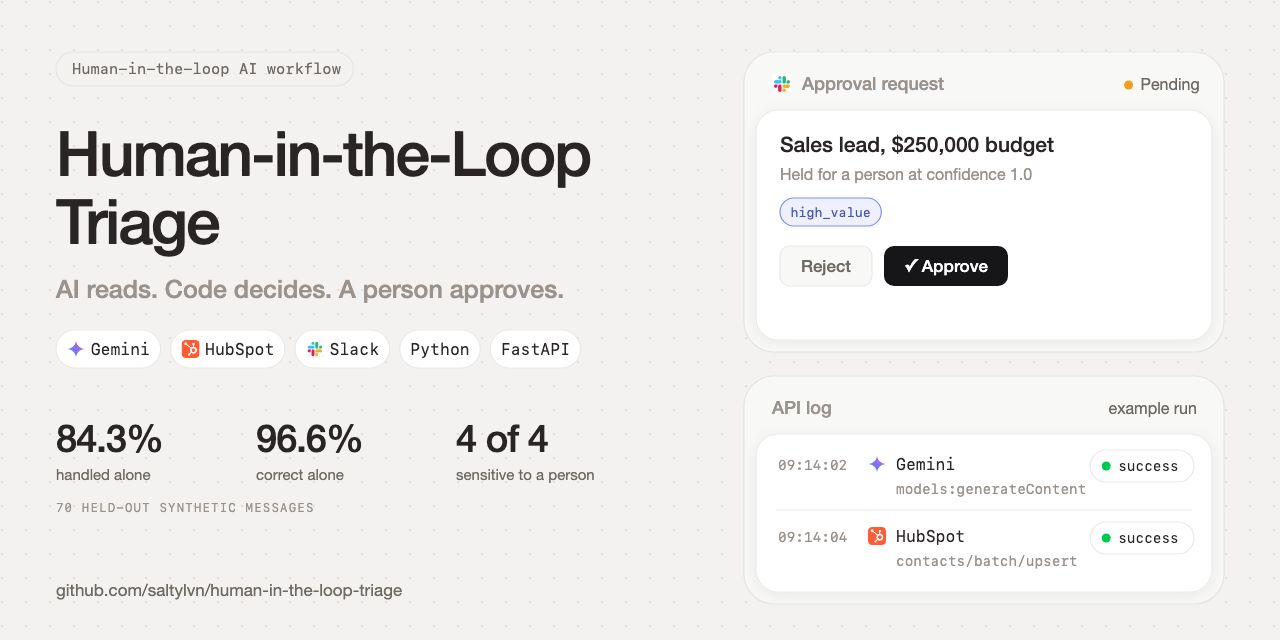
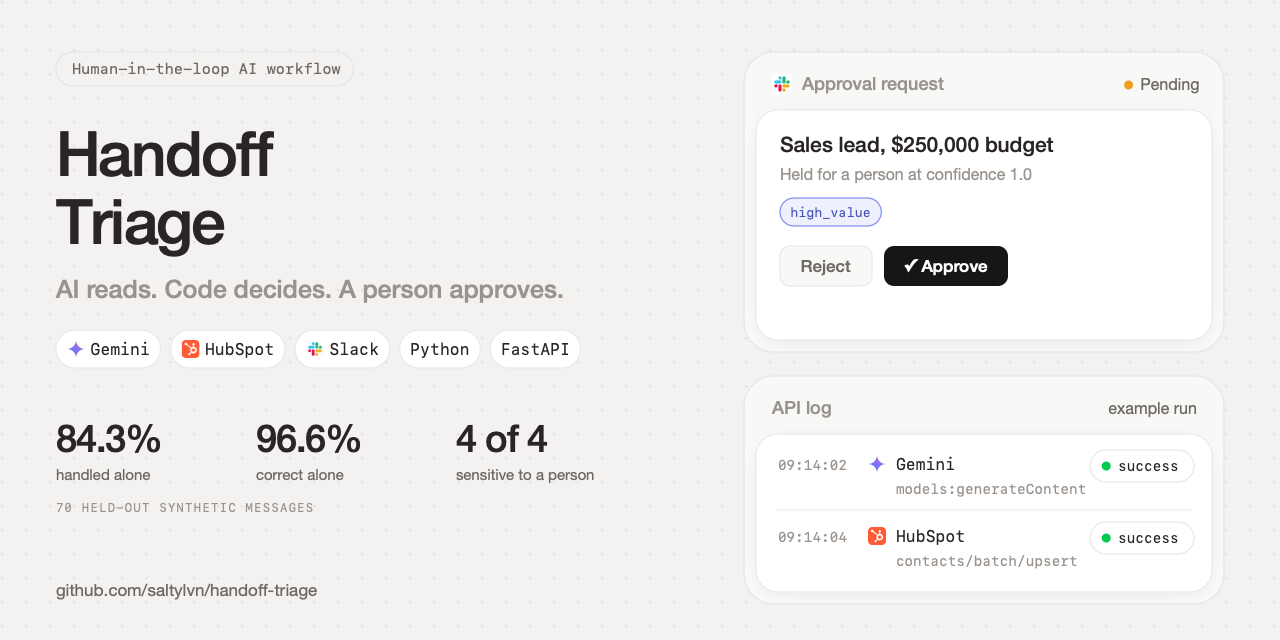
Rename the project to Handoff Triage
The repository becomes saltylvn/handoff-triage and the project is called
Handoff Triage everywhere: the README title and badges, the package name,
the API title, the HTTP User-Agent, the Slack and HubSpot app names, and
every visual (header, center card, footer link and social preview).
"Human-in-the-loop" stays where it describes the idea, not the name.

diff --git a/scripts/visuals/canvas.py b/scripts/visuals/canvas.py
@@ -20,7 +20,7 @@ GREEN, GREEN_DOT, AMBER, RED_DOT = "#0b7a3b", "#00c950", "#f0a020", "#fb2c36"
 
 SANS = "'Helvetica Now Display', 'Helvetica Neue', Helvetica, Arial, sans-serif"
 MONO = "'SF Mono Local', 'Geist Mono', Menlo, monospace"
-URL = "github.com/saltylvn/human-in-the-loop-triage"
+URL = "github.com/saltylvn/handoff-triage"
 SF_MONO = Path(
     "/System/Applications/Utilities/Terminal.app/Contents/Resources/Fonts/SF-Mono-Regular.otf"
 )
@@ -70,7 +70,7 @@ class Canvas:
         tag = topic
         self.rect(M, 40, text_width(tag, 15, True) + 32, 34, "none", PANEL_EDGE, r=17)
         self.text(M + 16, 62, tag, 15, MUTED, MONO)
-        self.text(W - M, 64, "Human-in-the-Loop Triage", 20, MUTED, anchor="end", weight=500)
+        self.text(W - M, 64, "Handoff Triage", 20, MUTED, anchor="end", weight=500)
         for i, (words, color) in enumerate(headline):
             self.text(M, 132 + i * 58, words, 52, color, weight=500, spacing=-1.5)
         self.hub(pill)
@@ -236,8 +236,8 @@ class Canvas:
         self.rect(ix, iy, w - 24, h - 24, WHITE, WHITE_EDGE, r=28, shadow=True)
         self.dot(ix + 40, iy + 50, ACCENT, r=5)
         self.text(ix + 54, iy + 56, "New message on the contact form", 17, SOFT)
-        self.text(ix + 38, iy + 118, "Inbound Triage", 38, INK, weight=500, spacing=-1)
-        self.text(ix + 38, iy + 162, "Agent", 38, INK, weight=500, spacing=-1)
+        self.text(ix + 38, iy + 118, "Handoff", 38, INK, weight=500, spacing=-1)
+        self.text(ix + 38, iy + 162, "Triage", 38, INK, weight=500, spacing=-1)
         for i, (_, name, _color) in enumerate(TILES):
             row, col = divmod(i, 2)
             cx, cy = ix + 38 + col * 158, iy + 196 + row * 48
@@ -314,7 +314,7 @@ def reliability():
         [("Nothing lost, nothing done twice.", INK), ("Failures resume where they stopped.", SOFT)],
         "accepted messages are never lost.",
         "Reliability layer",
-        "System design, the reliability layer. In the middle, the Inbound Triage Agent, connected to Gemini, RDAP, "
+        "System design, the reliability layer. In the middle, Handoff Triage, connected to Gemini, RDAP, "
         "HubSpot and Slack. Around it: five intake checks before the API answers; one SQLite file with four tables; "
         "five detours such as approval, retry and failure; and a step ledger that lets a retry skip finished work.",
     )

diff --git a/scripts/visuals/slides.py b/scripts/visuals/slides.py
@@ -39,7 +39,7 @@ class Slide(Canvas):
         self.back, self.front = [], []
         self.rect(M, 40, text_width(tag, 15, True) + 32, 34, "none", PANEL_EDGE, r=17)
         self.text(M + 16, 62, tag, 15, MUTED, MONO)
-        self.text(W - M, 64, "Human-in-the-Loop Triage", 20, MUTED, anchor="end", weight=500)
+        self.text(W - M, 64, "Handoff Triage", 20, MUTED, anchor="end", weight=500)
         for i, (words, color) in enumerate(headline):
             self.text(M, 132 + i * 58, words, 52, color, weight=500, spacing=-1.5)
         if caption:
@@ -499,7 +499,7 @@ def social_preview():
     c = Canvas.__new__(Canvas)
     c.name = "social-preview"
     c.label = (
-        "Human-in-the-Loop Triage: AI reads, code decides, a person approves. Built with Gemini, "
+        "Handoff Triage: AI reads, code decides, a person approves. Built with Gemini, "
         "HubSpot, Slack, Python and FastAPI. 84.3 percent handled alone and 96.6 percent correct "
         "on 70 held-out synthetic messages."
     )
@@ -507,7 +507,7 @@ def social_preview():
     tag = "Human-in-the-loop AI workflow"
     c.rect(56, 52, text_width(tag, 15, True) + 32, 34, "none", PANEL_EDGE, r=17)
     c.text(72, 74, tag, 15, MUTED, MONO)
-    c.text(56, 176, "Human-in-the-Loop", 62, INK, weight=500, spacing=-1.8)
+    c.text(56, 176, "Handoff", 62, INK, weight=500, spacing=-1.8)
     c.text(56, 244, "Triage", 62, INK, weight=500, spacing=-1.8)
     c.text(56, 298, "AI reads. Code decides. A person approves.", 25, SOFT, weight=500)
     cx = 56

diff --git a/src/triage/wiring.py b/src/triage/wiring.py
@@ -26,11 +26,9 @@ def build_auth(settings: Settings, client: httpx.Client, store: Store) -> HubSpo
 
 
 def build_deps(settings: Settings) -> tuple[Deps, HubSpotAuth]:
-    client = httpx.Client(
-        headers={"User-Agent": "human-in-the-loop-triage/0.1"}, follow_redirects=False
-    )
+    client = httpx.Client(headers={"User-Agent": "handoff-triage/0.1"}, follow_redirects=False)
     rdap_client = httpx.Client(
-        headers={"User-Agent": "human-in-the-loop-triage/0.1"}, follow_redirects=True
+        headers={"User-Agent": "handoff-triage/0.1"}, follow_redirects=True
     )  # rdap.org redirects to the registry for that domain
     store = Store(settings.database_path)
     auth = build_auth(settings, client, store)

diff --git a/src/triage/api.py b/src/triage/api.py
@@ -60,7 +60,7 @@ def create_app(
     approvers: frozenset[str],
     now: Callable[[], float],
 ) -> FastAPI:
-    app = FastAPI(title="Human-in-the-Loop Triage", docs_url=None, redoc_url=None, openapi_url=None)
+    app = FastAPI(title="Handoff Triage", docs_url=None, redoc_url=None, openapi_url=None)
 
     async def read_signed(request: Request, secret: str, ts_header: str, sig_header: str) -> bytes:
         declared = request.headers.get("content-length")

diff --git a/README.md b/README.md
@@ -1,6 +1,6 @@
-# Human-in-the-Loop Triage
+# Handoff Triage
 
-[![CI](https://github.com/saltylvn/human-in-the-loop-triage/actions/workflows/ci.yml/badge.svg)](https://github.com/saltylvn/human-in-the-loop-triage/actions/workflows/ci.yml)
+[![CI](https://github.com/saltylvn/handoff-triage/actions/workflows/ci.yml/badge.svg)](https://github.com/saltylvn/handoff-triage/actions/workflows/ci.yml)
 ![Python 3.13](https://img.shields.io/badge/python-3.13-blue)
 ![Strict mypy](https://img.shields.io/badge/mypy-strict-blue)
 ![Coverage 95%](https://img.shields.io/badge/coverage-95%25-brightgreen)
@@ -16,7 +16,7 @@
 
 These are from synthetic test data, so [read the caveats](#evaluation). The workflow has also [run live](#live-run) on HubSpot and Slack test accounts, including a real approval click.
 
-![The Inbound Triage Agent in the middle, connected to Gemini, RDAP, HubSpot and Slack, with its six workflow steps, results on 70 held-out messages, a pending Slack approval and the tools it is built with](docs/assets/overview.png)
+![Handoff Triage in the middle, connected to Gemini, RDAP, HubSpot and Slack, with its six workflow steps, results on 70 held-out messages, a pending Slack approval and the tools it is built with](docs/assets/overview.png)
 
 > **By design:** this is one LLM step inside a deterministic workflow, not a set of autonomous agents, because fixed steps are easier to test, audit and trust.
 
